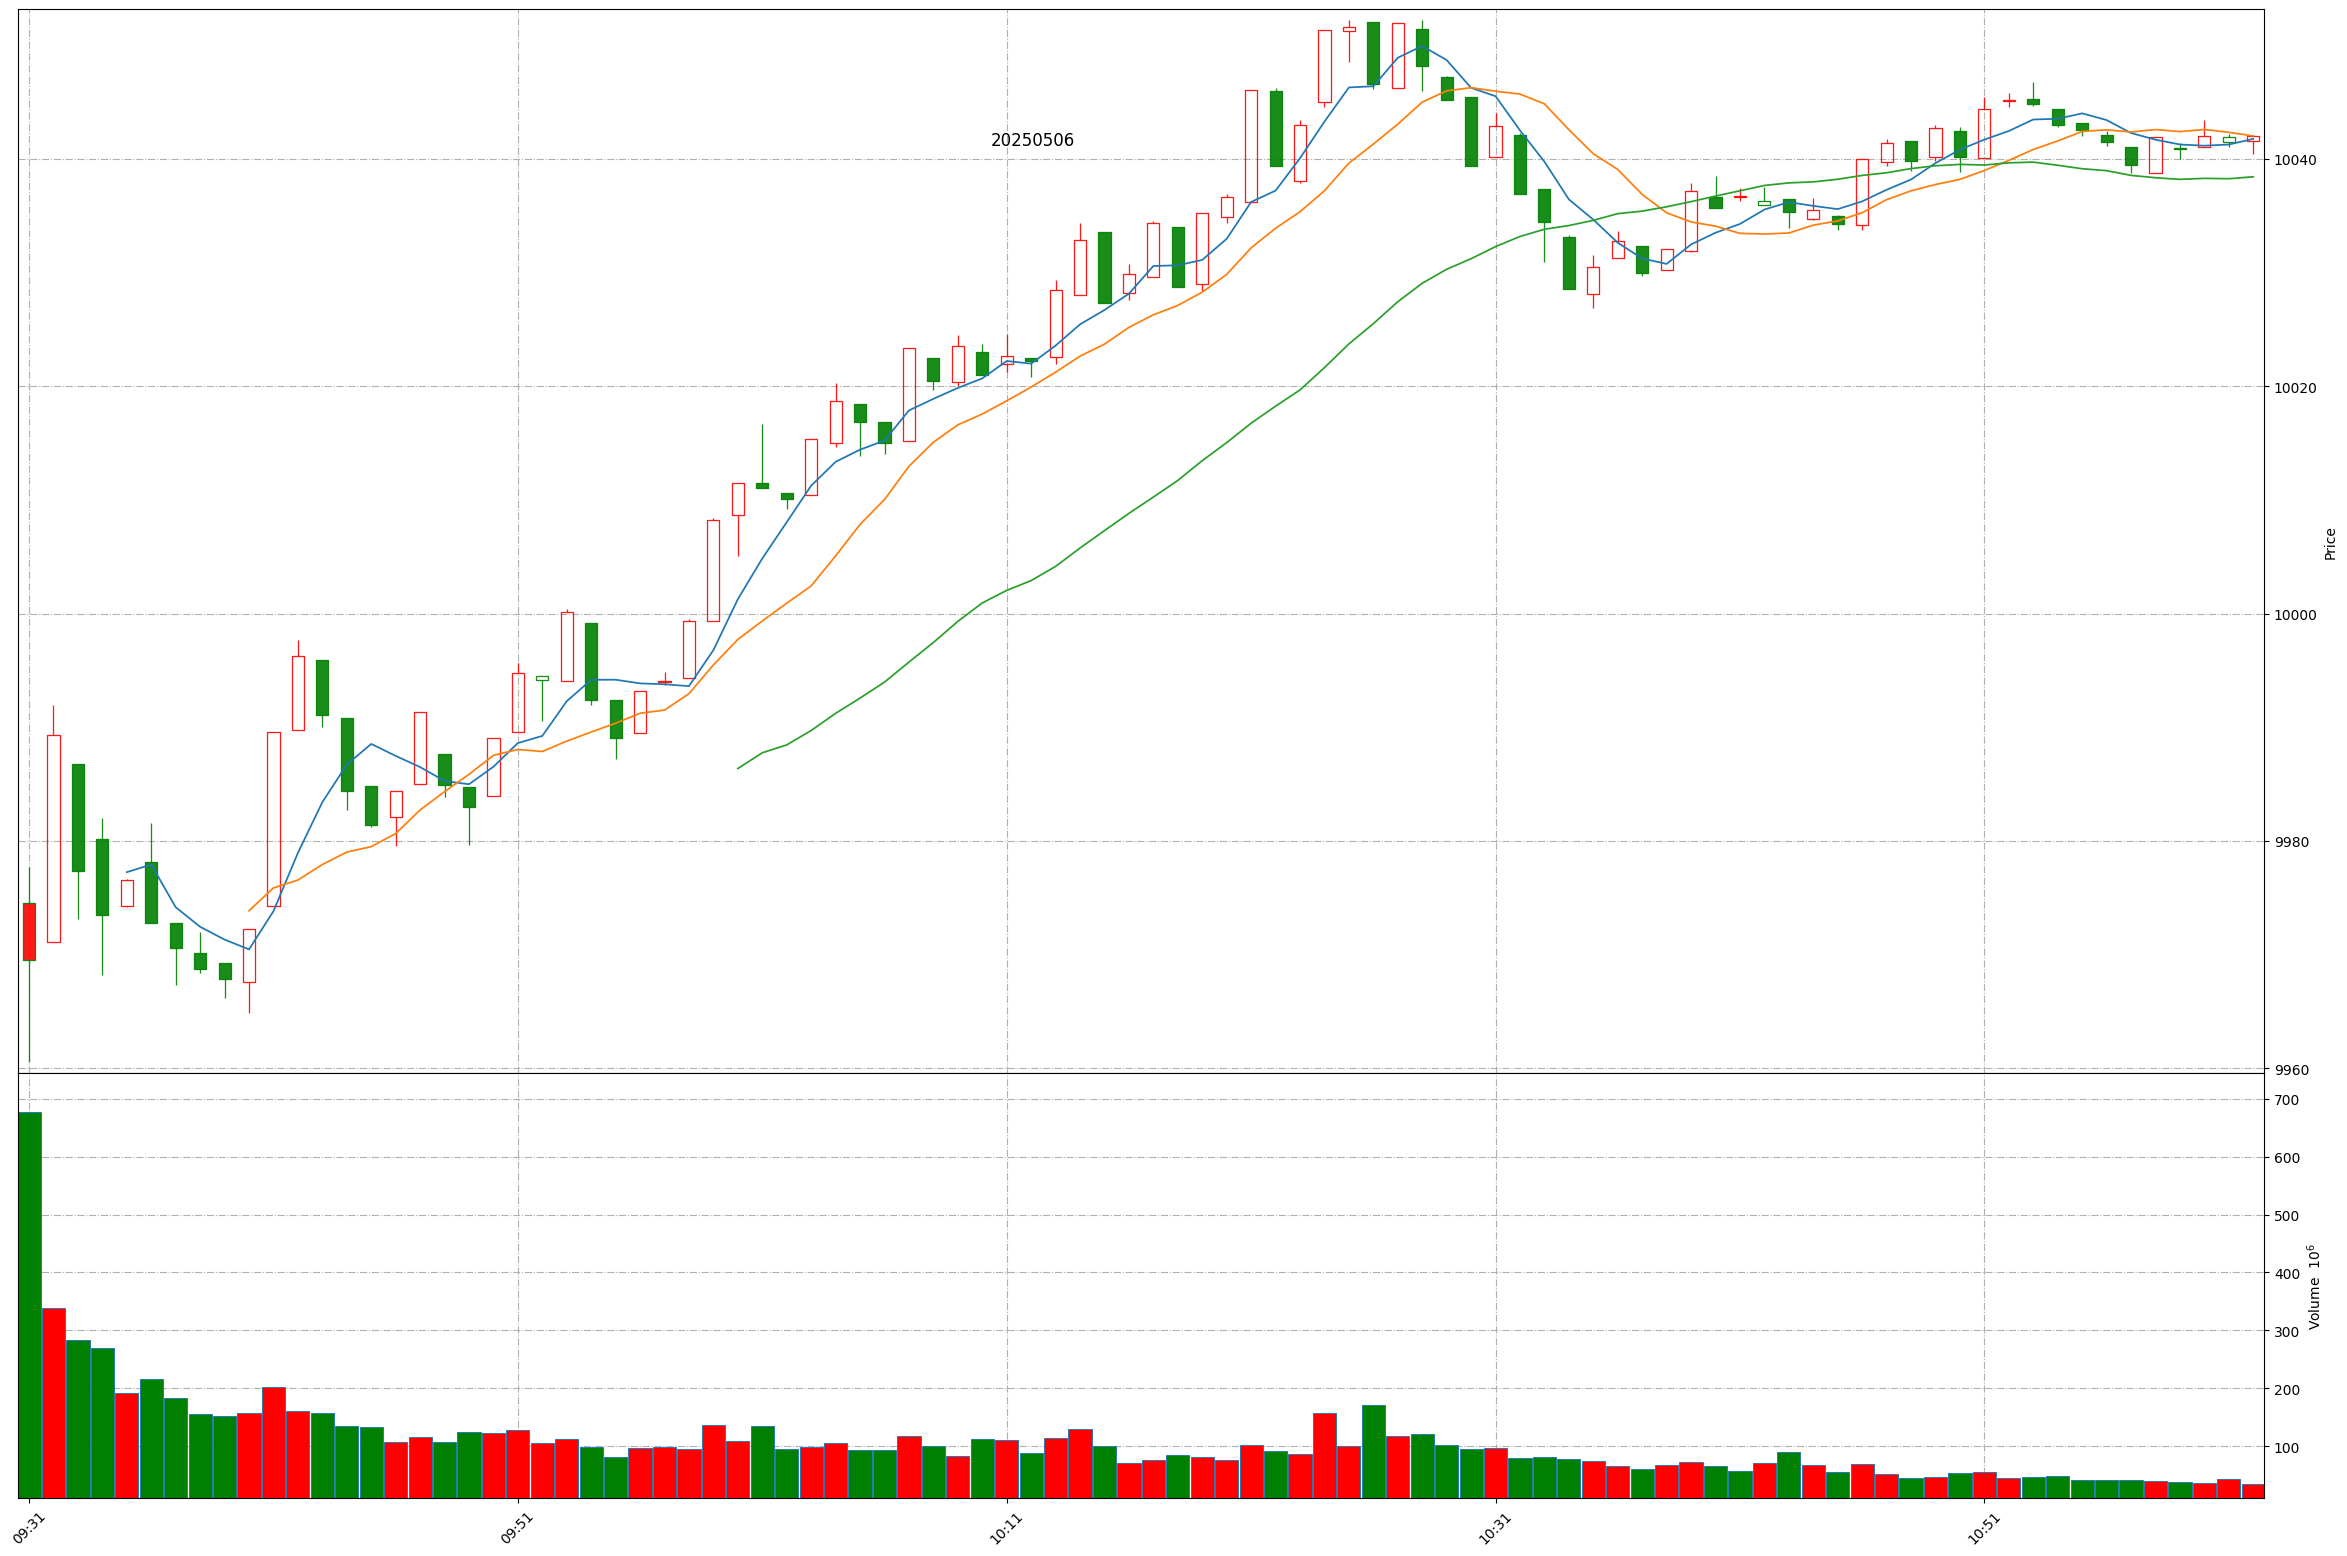
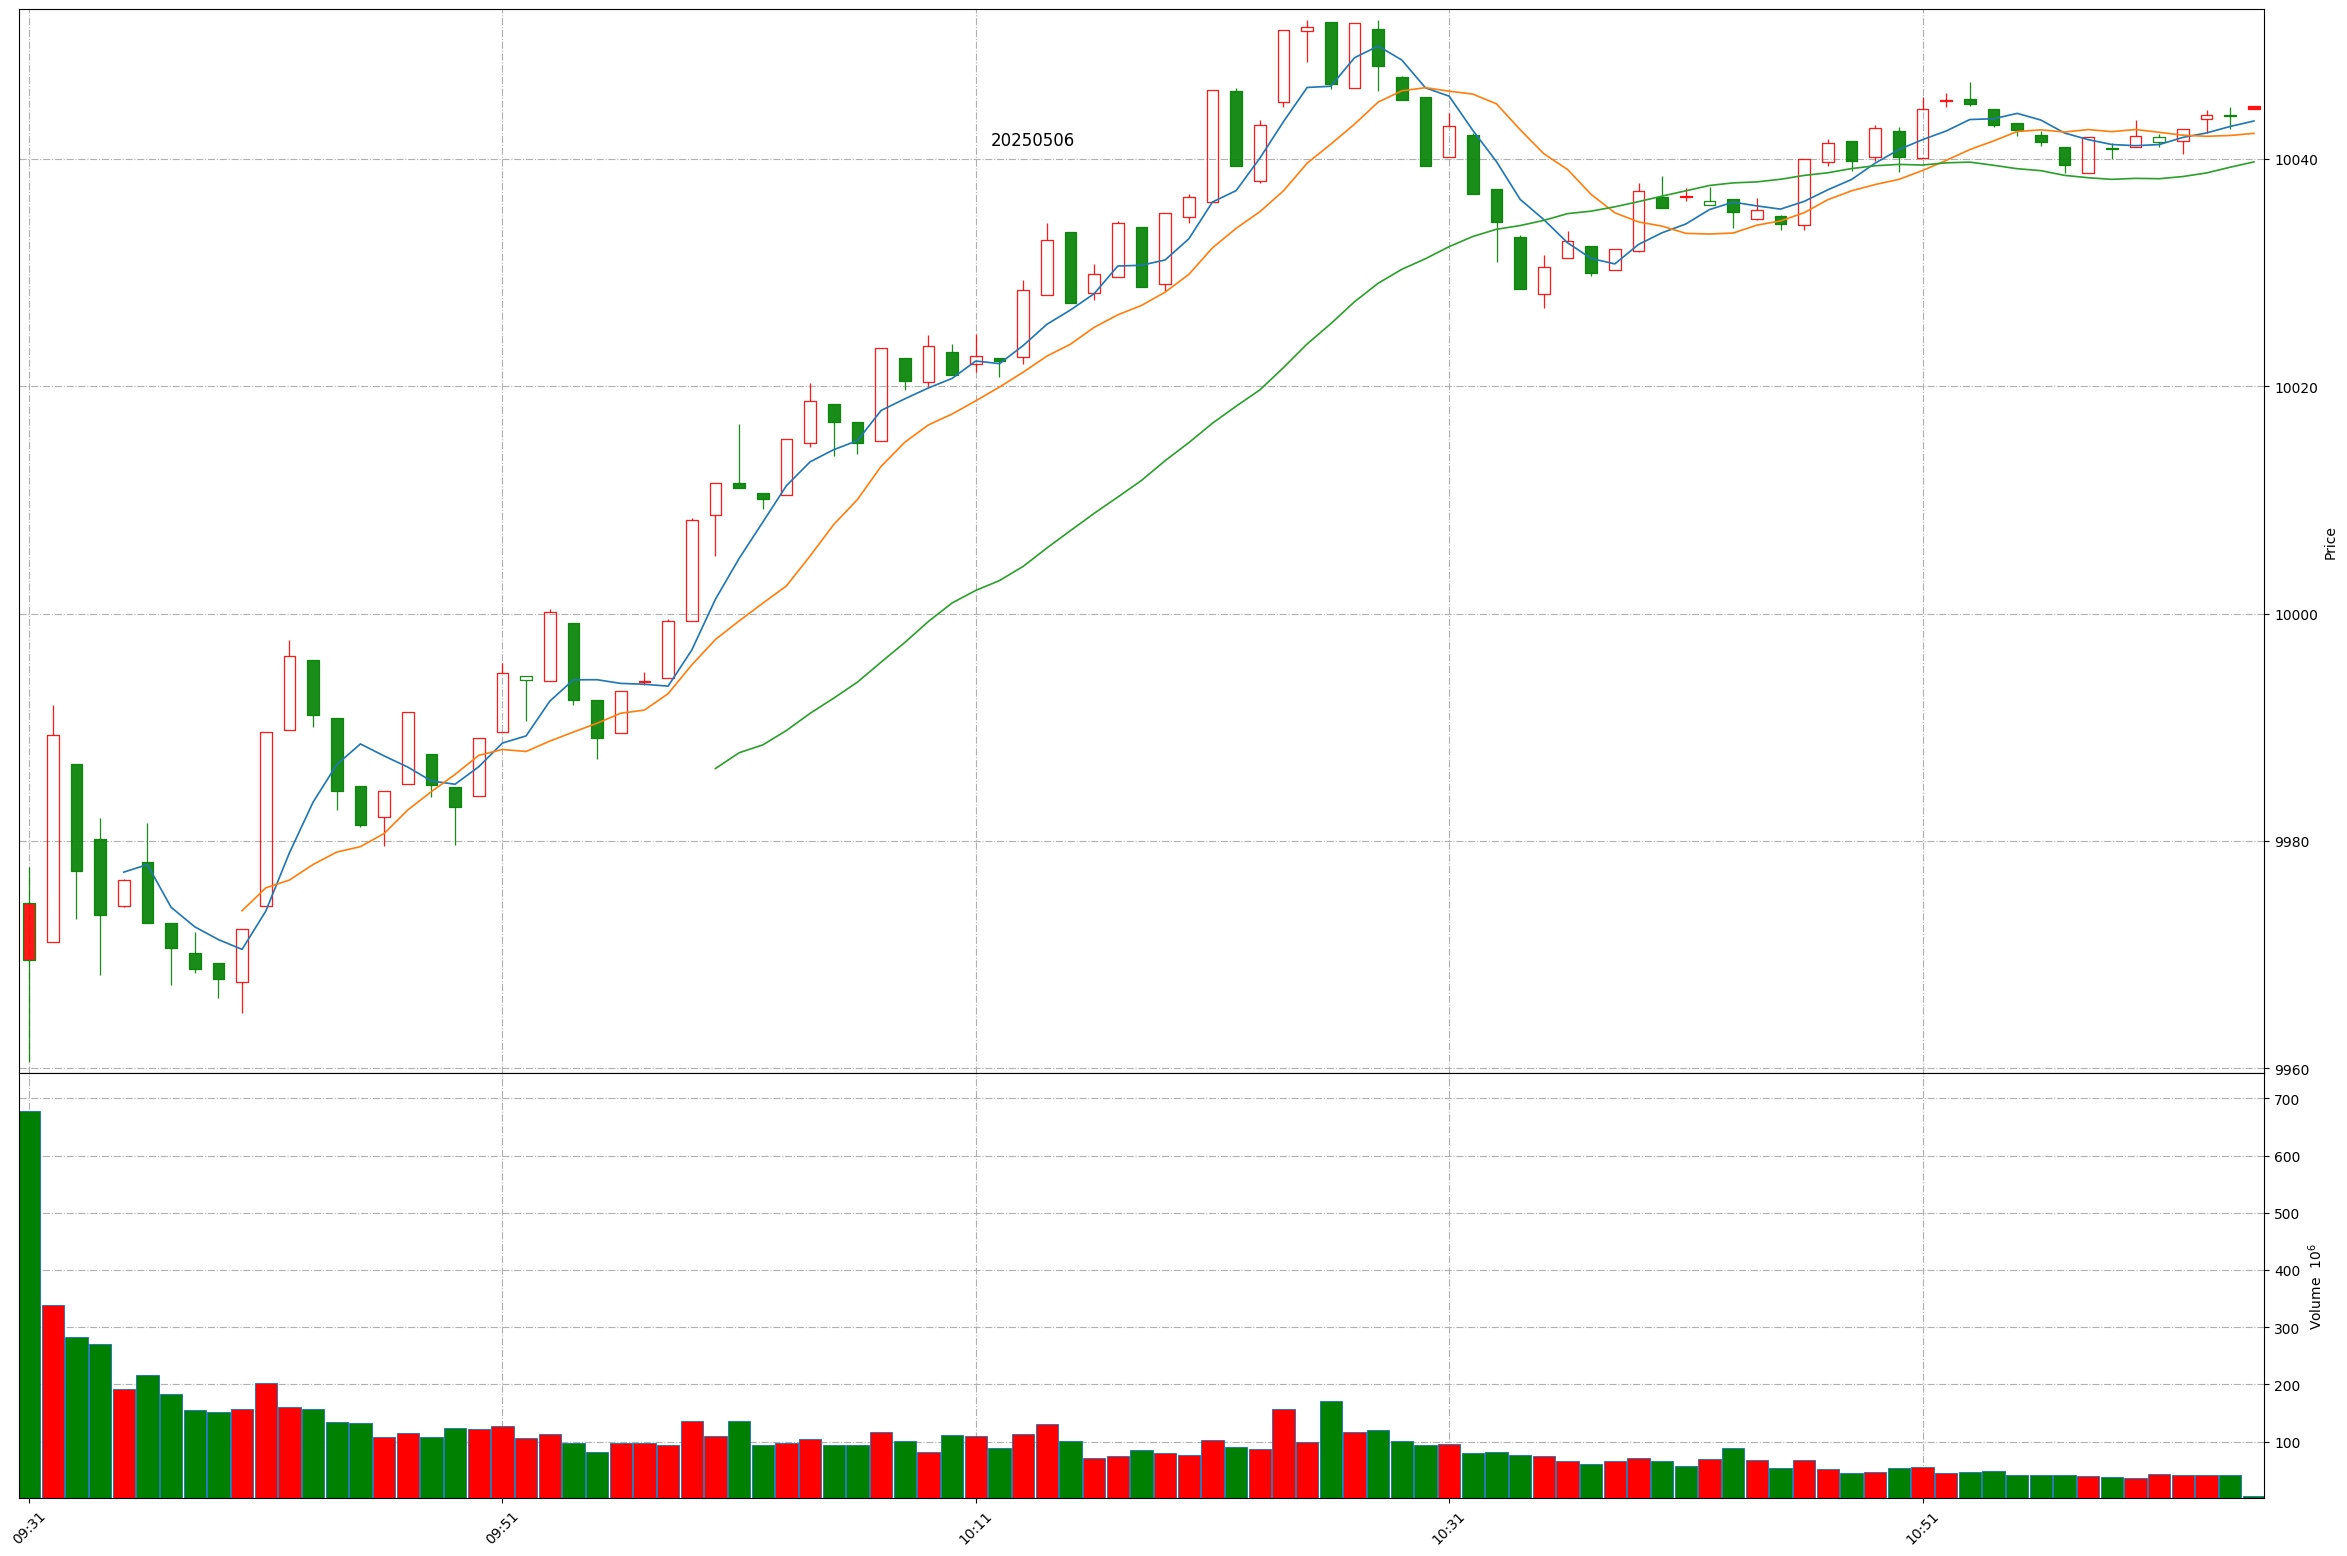
Github action update at 2025-05-06 11:04:14.

diff --git a/README.md b/README.md
@@ -1,11 +1,11 @@
 
 # Daily-A-share-market-quotes 每日 A 股指数（5min 更新）- 20250506
 
-### 上证指数 20250506 11:2
+### 上证指数 20250506 11:4
 ![](./fig/2025/5/20250506-sh000001.png)
 
-### 深证成指 20250506 11:2
+### 深证成指 20250506 11:4
 ![](./fig/2025/5/20250506-sz399001.png)
 
-### 北证50 20250506 11:2
+### 北证50 20250506 11:4
 ![](./fig/2025/5/20250506-bj899050.png)
